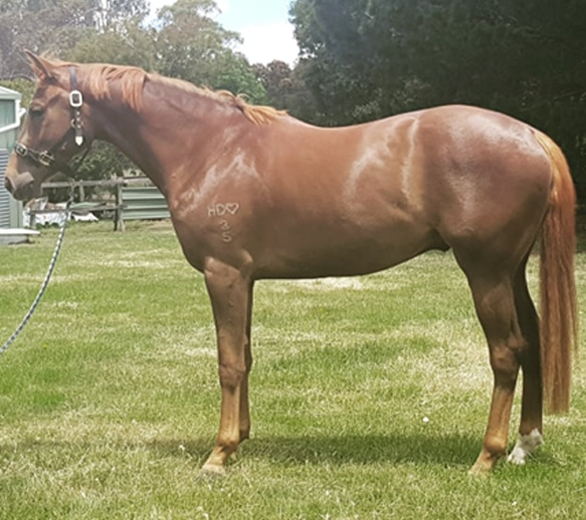
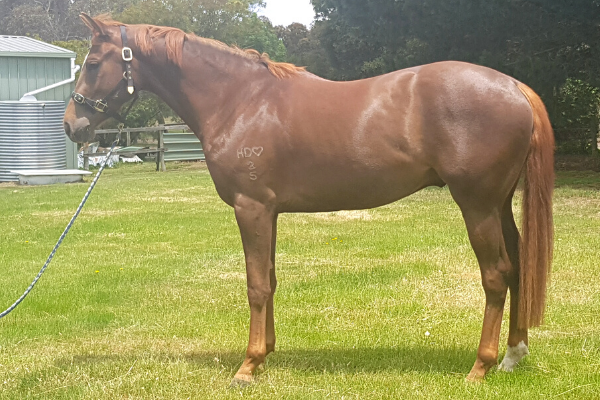
changed photos

diff --git a/index.html b/index.html
@@ -147,7 +147,7 @@
                     <!--Grid column-->
                     <div class="col-md-6 mb-4">
 
-                        <img src="/img/photos/profile.jpg" class="img-fluid mx-auto d-block" alt="">
+                        <img src="/img/photos/profile.png" class="img-fluid mx-auto d-block" alt="">
 
                     </div>
                     <!--Grid column-->
